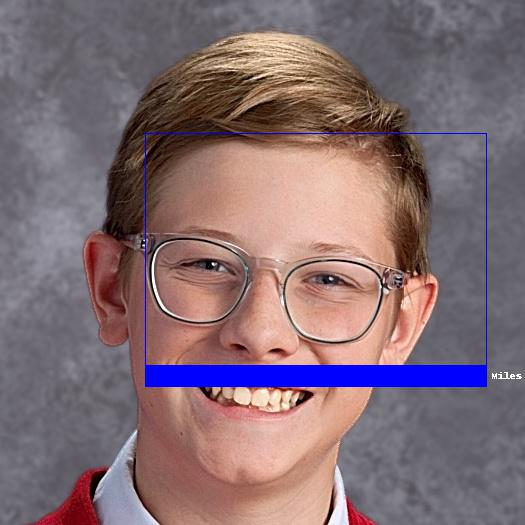
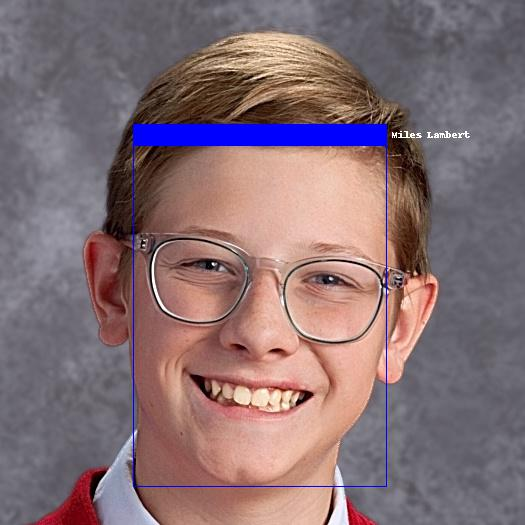
fjsdg

Changed region(s): [[0.2438, 0.2133, 1.0, 0.9448]]

diff --git a/miles_api/main.py b/miles_api/main.py
@@ -436,7 +436,7 @@ async def predict_label_images(predict_images_info: PredictImagesInfo = PredictI
 
     # Loop through faces
     for face in faces:
-        right, bottom, left, top = face['bbox']
+        left, top, right, bottom = face['bbox']
         face_encoding = face['vec']
 
         # See if the face is a match for the known face(s)
